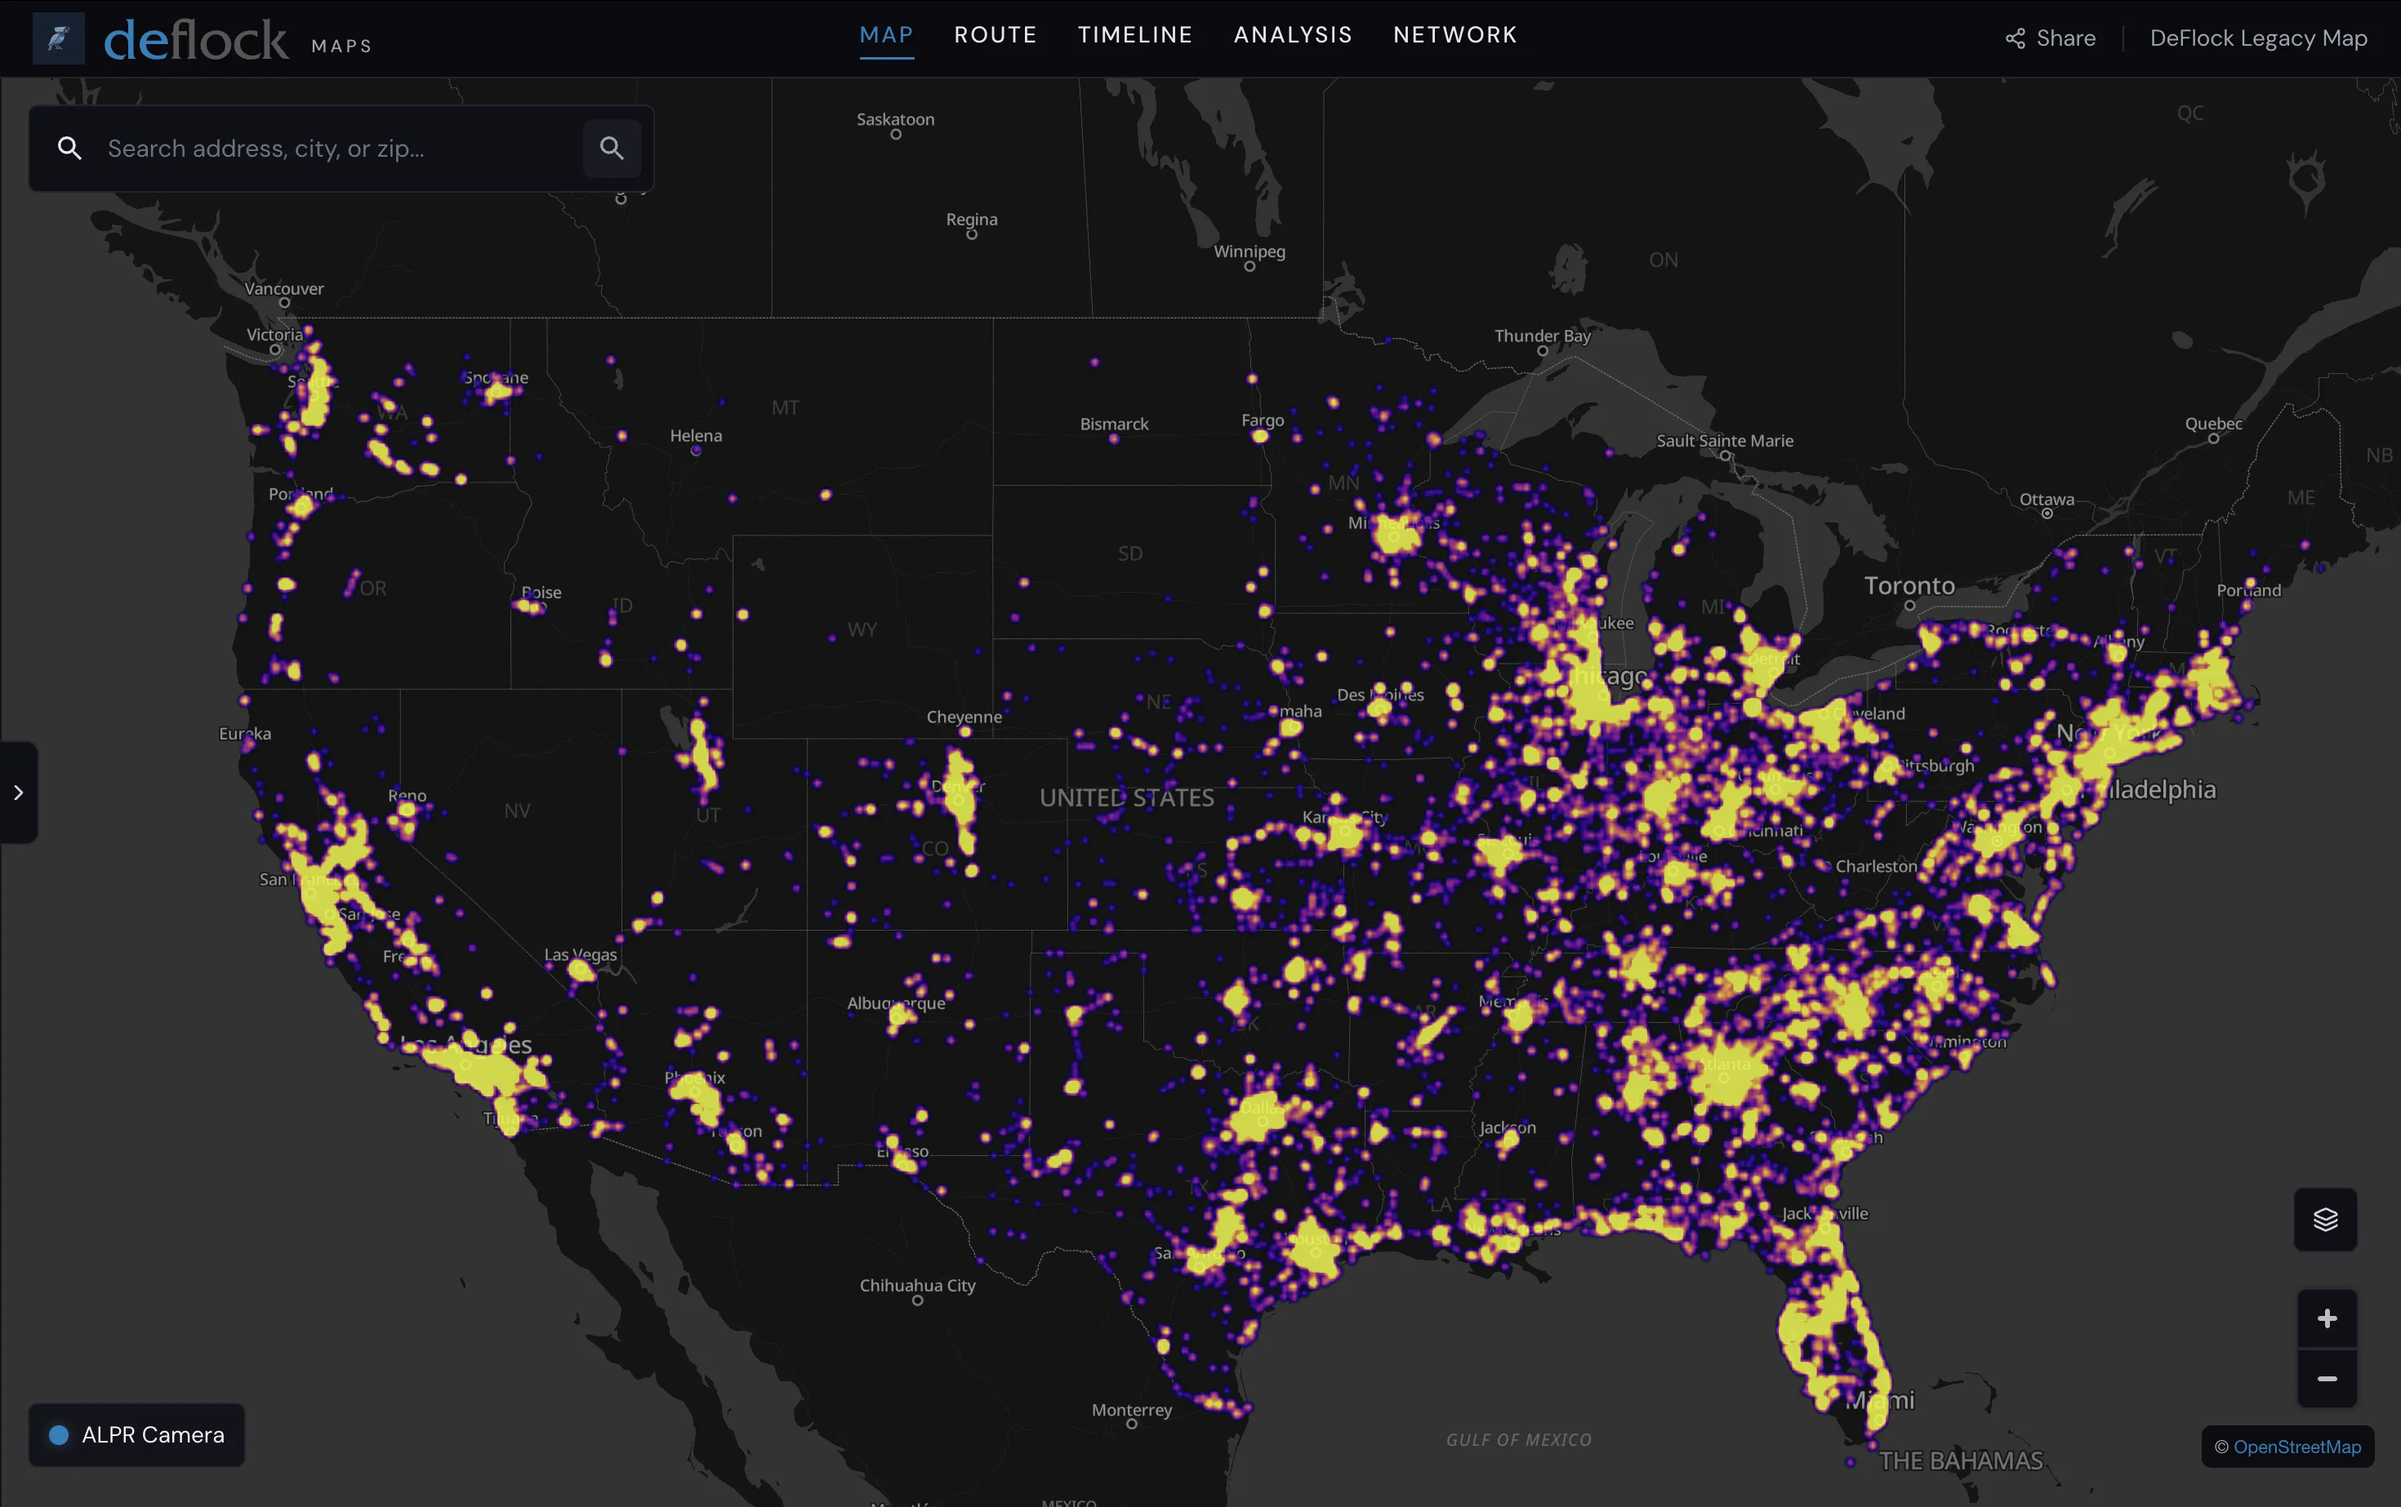
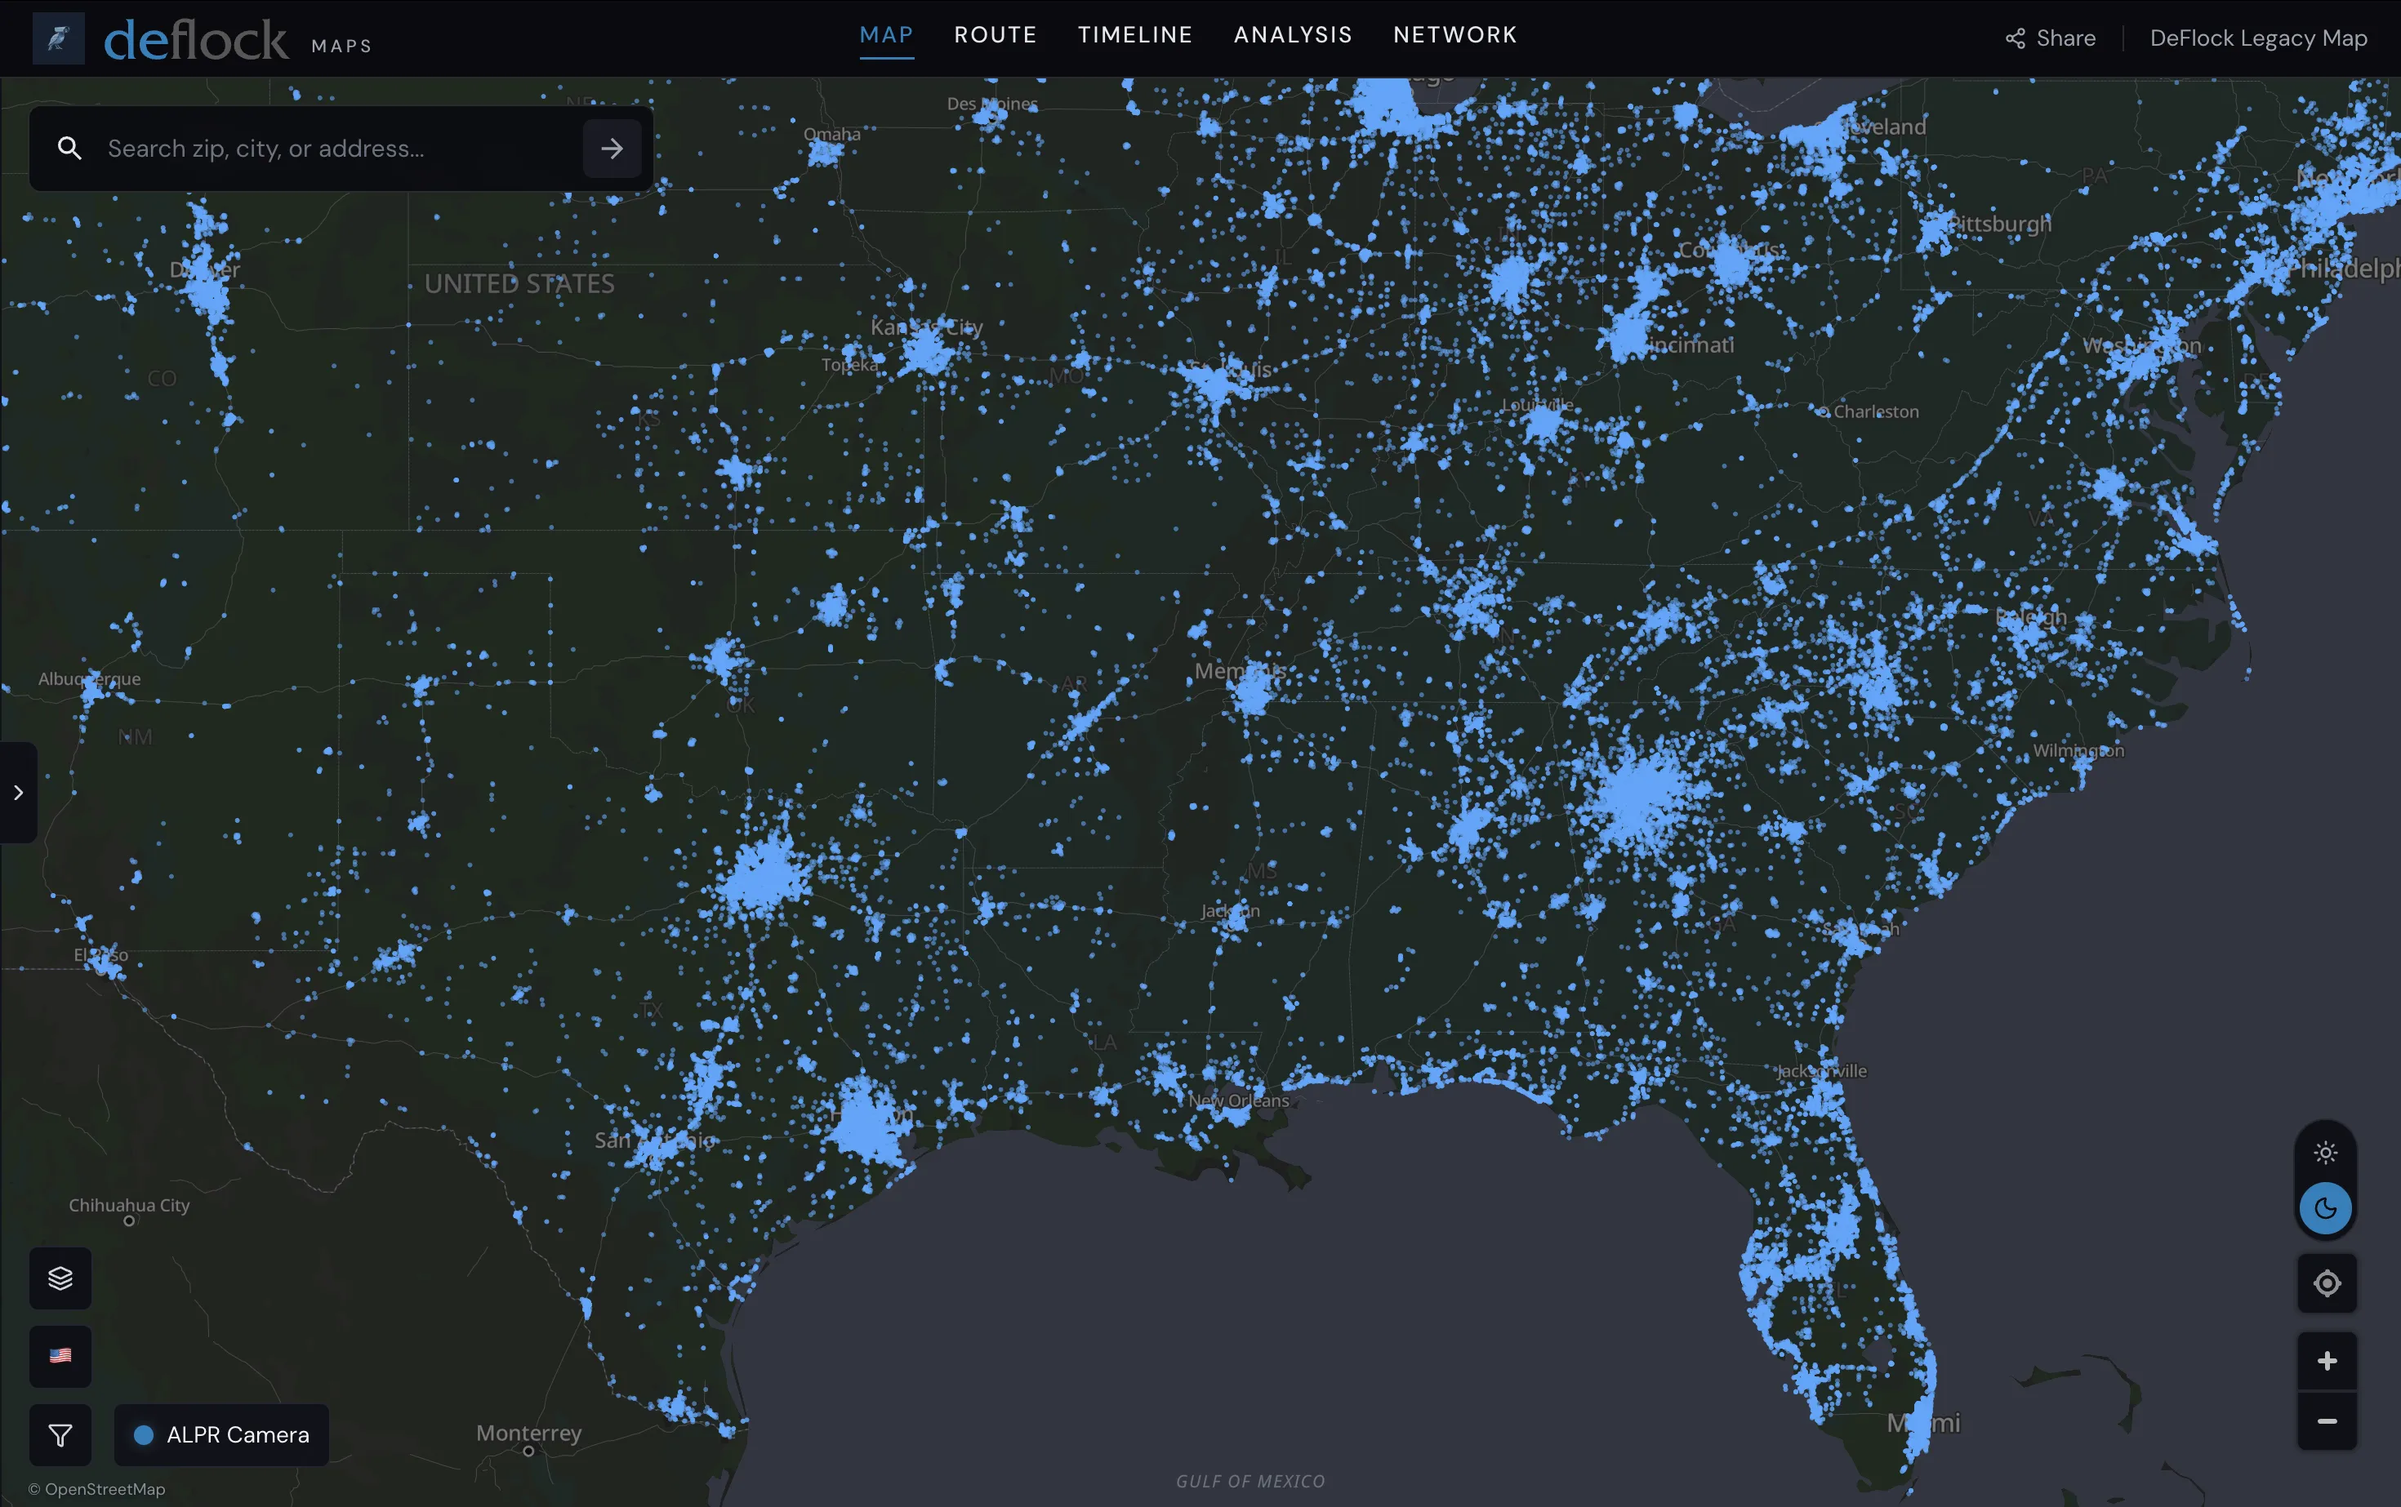
setting the record straight

diff --git a/webapp/src/views/Landing.vue b/webapp/src/views/Landing.vue
@@ -38,17 +38,17 @@
       </div>
     </v-alert>
     <div class="hero-background">
-      <!-- note on crypto -->
+      <!-- Good Morning America correction -->
       <div class="text-center pt-4 mb-0">
         <v-btn
-          to="/blog/414"
+          to="/blog/415"
           size="small"
           variant="flat"
           color="white"
-          prepend-icon="mdi-bitcoin"
+          prepend-icon="mdi-television-classic"
           append-icon="mdi-arrow-right-thick"
         >
-          A Note on Crypto
+          Setting the Record Straight
         </v-btn>
       </div>
       <v-container class="text-center pb-8 pt-4">
